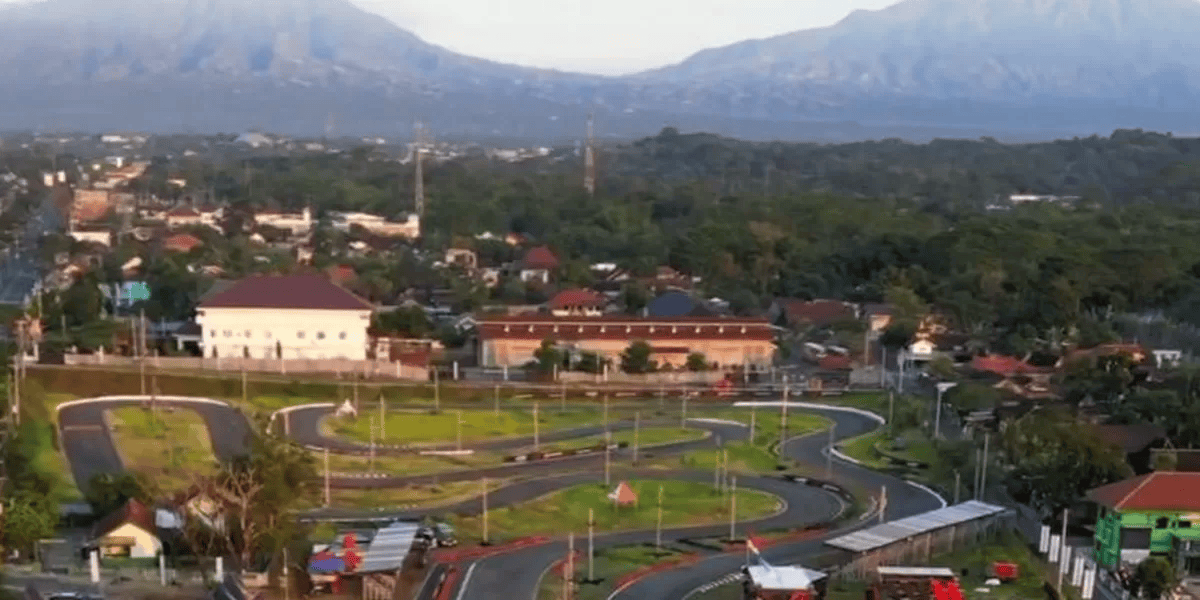
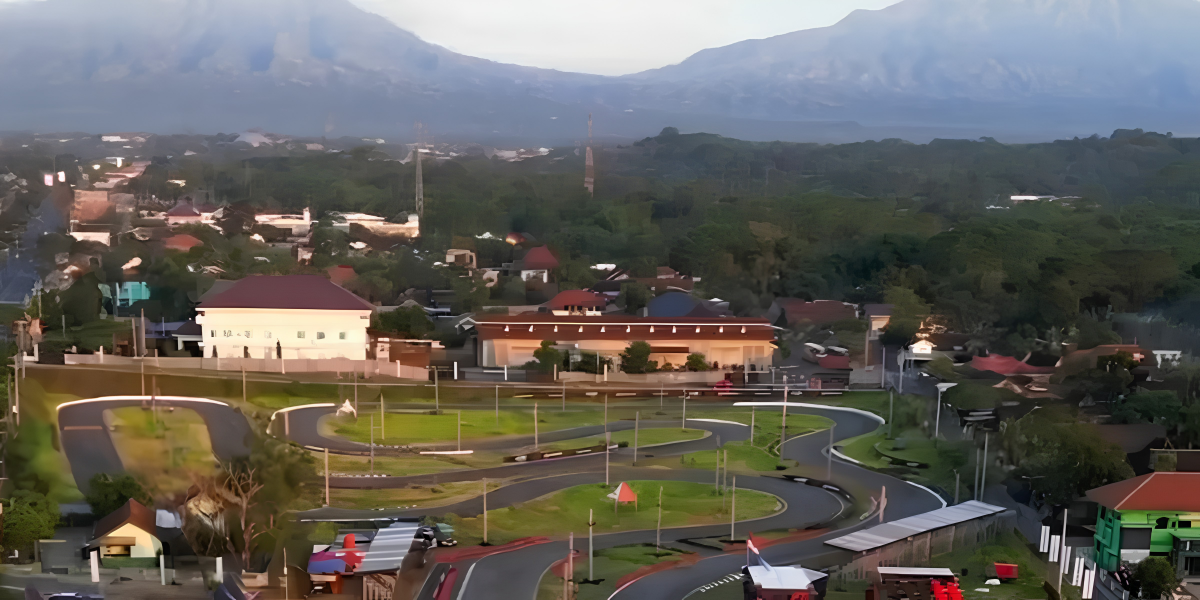
Perbarui background landing

diff --git a/resources/js/app.js b/resources/js/app.js
@@ -1,5 +1,6 @@
 import './bootstrap';
 import '../css/app.css';
+import axios from "axios";
 
 import { createApp, h } from 'vue';
 import { createInertiaApp } from '@inertiajs/vue3';
@@ -7,6 +8,7 @@ import { resolvePageComponent } from 'laravel-vite-plugin/inertia-helpers';
 import { ZiggyVue } from '../../vendor/tightenco/ziggy';
 
 const appName = import.meta.env.VITE_APP_NAME || 'SIKOBOY';
+axios.defaults.withCredentials = true;
 
 createInertiaApp({
     title: (title) => `${title} - ${appName}`,

diff --git a/resources/js/bootstrap.js b/resources/js/bootstrap.js
@@ -5,5 +5,8 @@ window.axios.defaults.headers.common['X-Requested-With'] = 'XMLHttpRequest';
 
 const tokenMeta = document.querySelector('meta[name="csrf-token"]');
 if (tokenMeta) {
-	window.axios.defaults.headers.common['X-CSRF-TOKEN'] = tokenMeta.getAttribute('content');
+    window.axios.defaults.headers.common["X-CSRF-TOKEN"] =
+        tokenMeta.getAttribute("content");
+} else {
+    console.error("CSRF token not found");
 }

diff --git a/resources/js/Components/Peraturan/HeroPeraturan.vue b/resources/js/Components/Peraturan/HeroPeraturan.vue
@@ -1,6 +1,6 @@
 <script setup>
 import { ref, onMounted, onUnmounted } from "vue";
-const heroTentang = "/storage/images/HeroPeraturan.png";
+const heroTentang = "/storage/images/peraturan.png";
 
 // PARALLAX (biar konsisten sama landing)
 const offset = ref(0);

diff --git a/resources/js/Components/Kontak/HeroSection.vue b/resources/js/Components/Kontak/HeroSection.vue
@@ -1,6 +1,6 @@
 <script setup>
 import { ref, onMounted, onUnmounted } from "vue";
-const heroTentang = "/storage/images/kontak.jpg";
+const heroTentang = "/storage/images/kontak.jpeg";
 
 // PARALLAX (biar konsisten sama landing)
 const offset = ref(0);

diff --git a/resources/js/Components/Tentang/HeroTentang.vue b/resources/js/Components/Tentang/HeroTentang.vue
@@ -1,6 +1,6 @@
 <script setup>
 import { ref, onMounted, onUnmounted } from "vue";
-const heroTentang = "/storage/images/HeroTentang.png";
+const heroTentang = "/storage/images/tentang.png";
 
 // PARALLAX
 const offset = ref(0);

diff --git a/resources/js/Components/Landing/HeroSection.vue b/resources/js/Components/Landing/HeroSection.vue
@@ -1,6 +1,6 @@
 <script setup>
 import { ref, onMounted, onUnmounted } from 'vue'
-const landing = "/storage/images/landing.png";
+const landing = "/storage/images/beranda.png";
 
 defineProps({
     title: {

diff --git a/routes/web.php b/routes/web.php
@@ -139,16 +139,10 @@ Route::middleware(['auth', 'role:mitra'])->prefix('mitra')->name('mitra.')->grou
         ->name('pengajuan.store');
 });
 
-// Portal Mitra (Alias for Mitra Profile) — point to existing controller method
-Route::middleware(['auth', 'role:mitra'])->get('/portal-mitra', [MitraProfileController::class, 'edit'])
-    ->name('portal-mitra');
-
 // Admin Routes
 Route::middleware(['auth', 'role:admin'])->prefix('admin')->name('admin.')->group(function () {
 
     // Dashboard
-    Route::get('/beranda', [AdminDashboardController::class, 'index'])
-        ->name('beranda.index');
     Route::get('/dashboard', [AdminDashboardController::class, 'index'])
         ->name('dashboard');
 

diff --git a/app/Http/Middleware/CheckRole.php b/app/Http/Middleware/CheckRole.php
@@ -25,7 +25,7 @@ class CheckRole
         $user = Auth::user();
 
         // Check if user has the required role
-        if (!in_array($user->role, $roles)) {
+        if (!in_array(strtolower(trim($user->role)), array_map('strtolower', $roles))) {
             abort(403, 'Unauthorized access.');
         }
 
